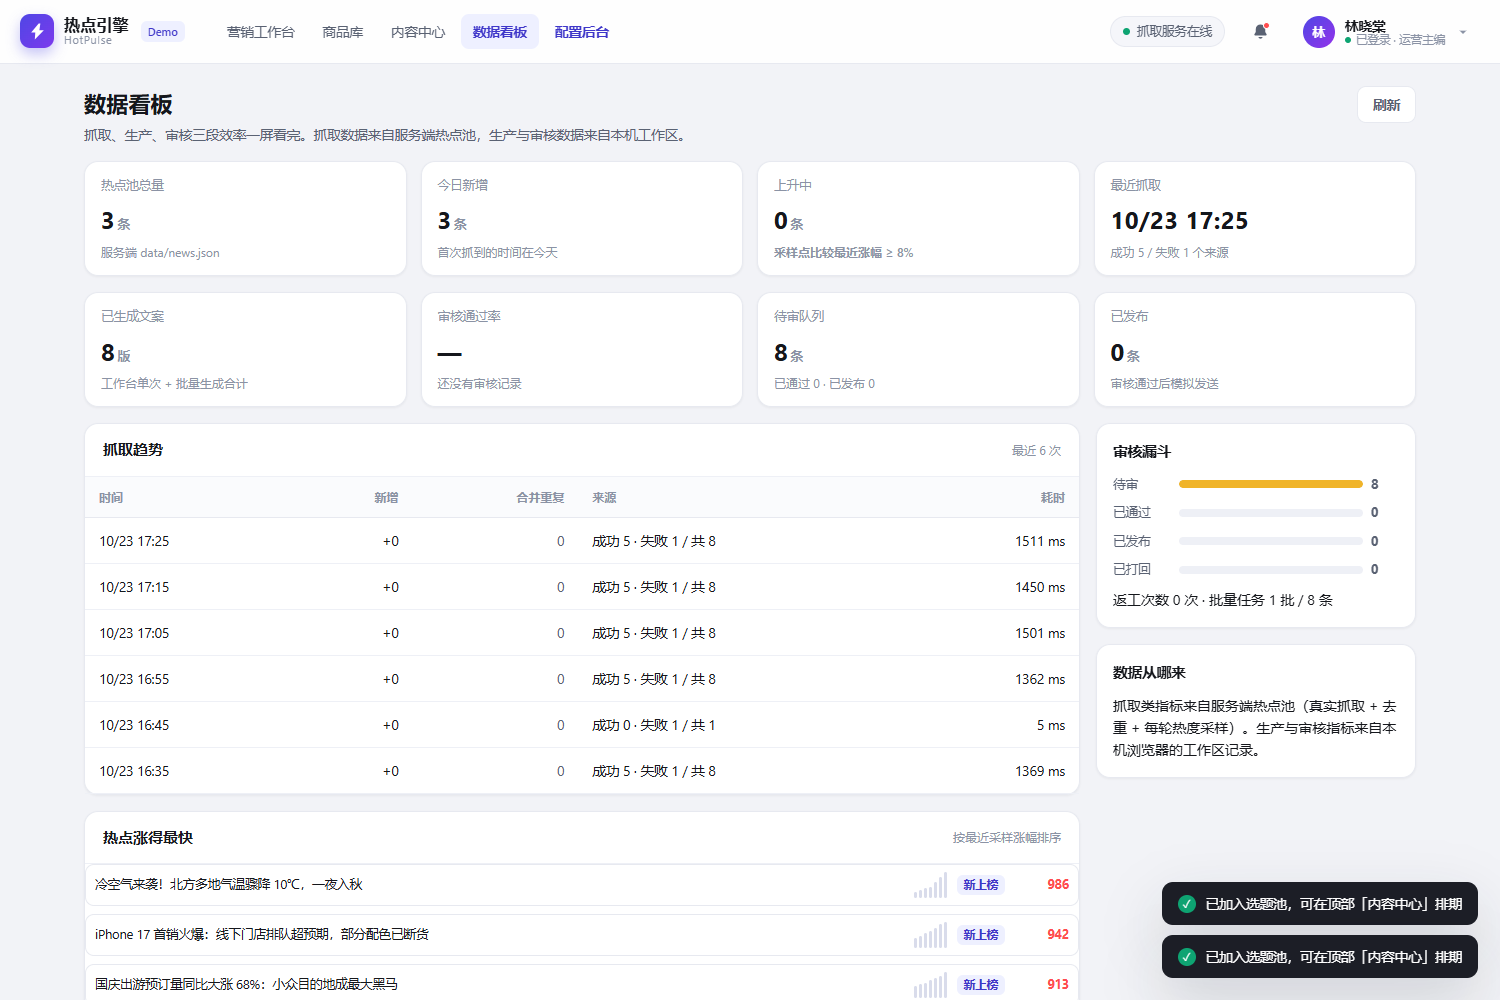
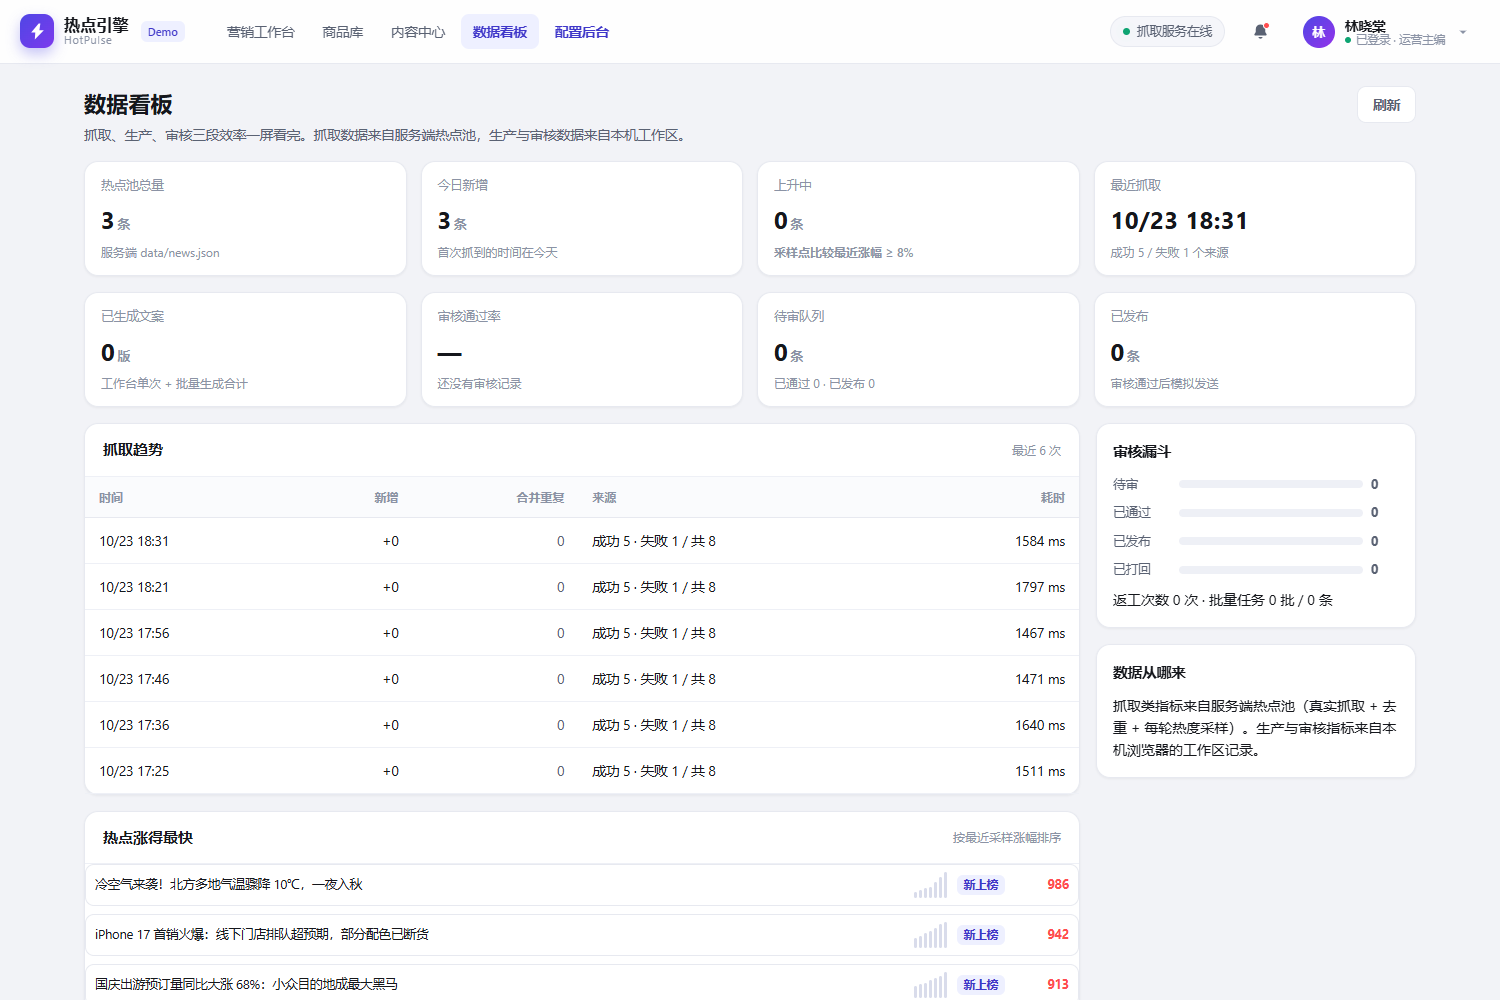
运营效率：最近抓取统计反映服务端定时抓取 + 自动刷新改为轮询热点池

diff --git a/assets/js/app.js b/assets/js/app.js
@@ -362,13 +362,18 @@
     const srcOn = enabledSources().length;
     const withItems = enabledWithItems().length;
     const server = HP.Config.isServer();
+    /* 手动抓取优先；没有就显示服务端定时抓取的那一次（不伪造） */
+    const lastRun = state.serverNews.stats && state.serverNews.stats.lastRun;
+    const lastAt = state.stats.lastFetch || (lastRun && lastRun.at ? new Date(lastRun.at) : null);
+    const lastNote = state.stats.lastFetchNote
+      || (lastRun ? '服务端定时抓取：新增 ' + (lastRun.added || 0) + ' · 合并 ' + (lastRun.merged || 0)
+        : (server ? '还没抓取过 · 服务端已连接' : '还没抓取过 · 演示模式不会真抓'));
     $('#newsStats').innerHTML = [
       statCard('当前热点列表', list.length, '条',
         '启用来源 ' + srcOn + ' 个 · 其中有条目 ' + withItems + ' 个', list.length ? '' : 'trend-flat'),
       statCard('高潜热点', high, '条', '热度 > 850 且仍在上升', 'trend-up'),
       statCard('已选热点', picked, '条', '作为本次营销主线', ''),
-      statCard('最近抓取', state.stats.lastFetch ? clock(state.stats.lastFetch) : '—', '',
-        state.stats.lastFetchNote || (server ? '还没抓取过 · 服务端已连接' : '还没抓取过 · 演示模式不会真抓'), 'trend-flat')
+      statCard('最近抓取', lastAt ? clock(lastAt) : '—', '', lastNote, 'trend-flat')
     ].join('');
   }
   function statCard(k, v, unit, d, cls) {
@@ -1783,6 +1788,20 @@
     if (go) go.addEventListener('click', function () { setView('work'); goStep(Number(go.dataset.viewGo)); });
   }
 
+  /* 自动刷新：服务端模式下每 5 分钟从热点池拉一次最新（只读，不触发抓取） */
+  let autoRefreshTimer = null;
+  function setAutoRefresh(on) {
+    if (autoRefreshTimer) { clearInterval(autoRefreshTimer); autoRefreshTimer = null; }
+    if (!on) return;
+    autoRefreshTimer = setInterval(function () {
+      if (!HP.Config.isServer()) return;
+      refreshServerNews().then(function () {
+        refreshNews();
+        if (state.view === 'work' && state.step === 1) rerenderStep1();
+      });
+    }, 5 * 60 * 1000);
+  }
+
   /* ---------------- 事件绑定：运营效率 ---------------- */
   function wireEfficiency() {
     $$('#topNav a').forEach(function (a) {
@@ -1922,9 +1941,10 @@
     $('#newsSource').addEventListener('change', e => { state.newsFilter.source = e.target.value; renderNewsList(); });
     $('#newsTime').addEventListener('change', e => { state.newsFilter.time = e.target.value; renderNewsList(); });
     $('#newsSort').addEventListener('change', e => { state.newsFilter.sort = e.target.value; renderNewsList(); });
-    $('#autoRefresh').addEventListener('change', e => toast(e.target.checked
+    setAutoRefresh($('#autoRefresh').checked);
+    $('#autoRefresh').addEventListener('change', e => { setAutoRefresh(e.target.checked); toast(e.target.checked
       ? (HP.Config.isServer() ? '已开启自动刷新（每 5 分钟抓一次，仅服务端模式有效）' : '已开启自动刷新（演示模式：实际不会抓取，只是状态展示）')
-      : '已关闭自动刷新', e.target.checked && !HP.Config.isServer() ? 'warn' : ''));
+      : '已关闭自动刷新', e.target.checked && !HP.Config.isServer() ? 'warn' : ''); });
 
     $('#rematchBtn').addEventListener('click', () => {
       if (!state.selectedNewsId) { toast('请先选择热点', 'warn'); return; }
